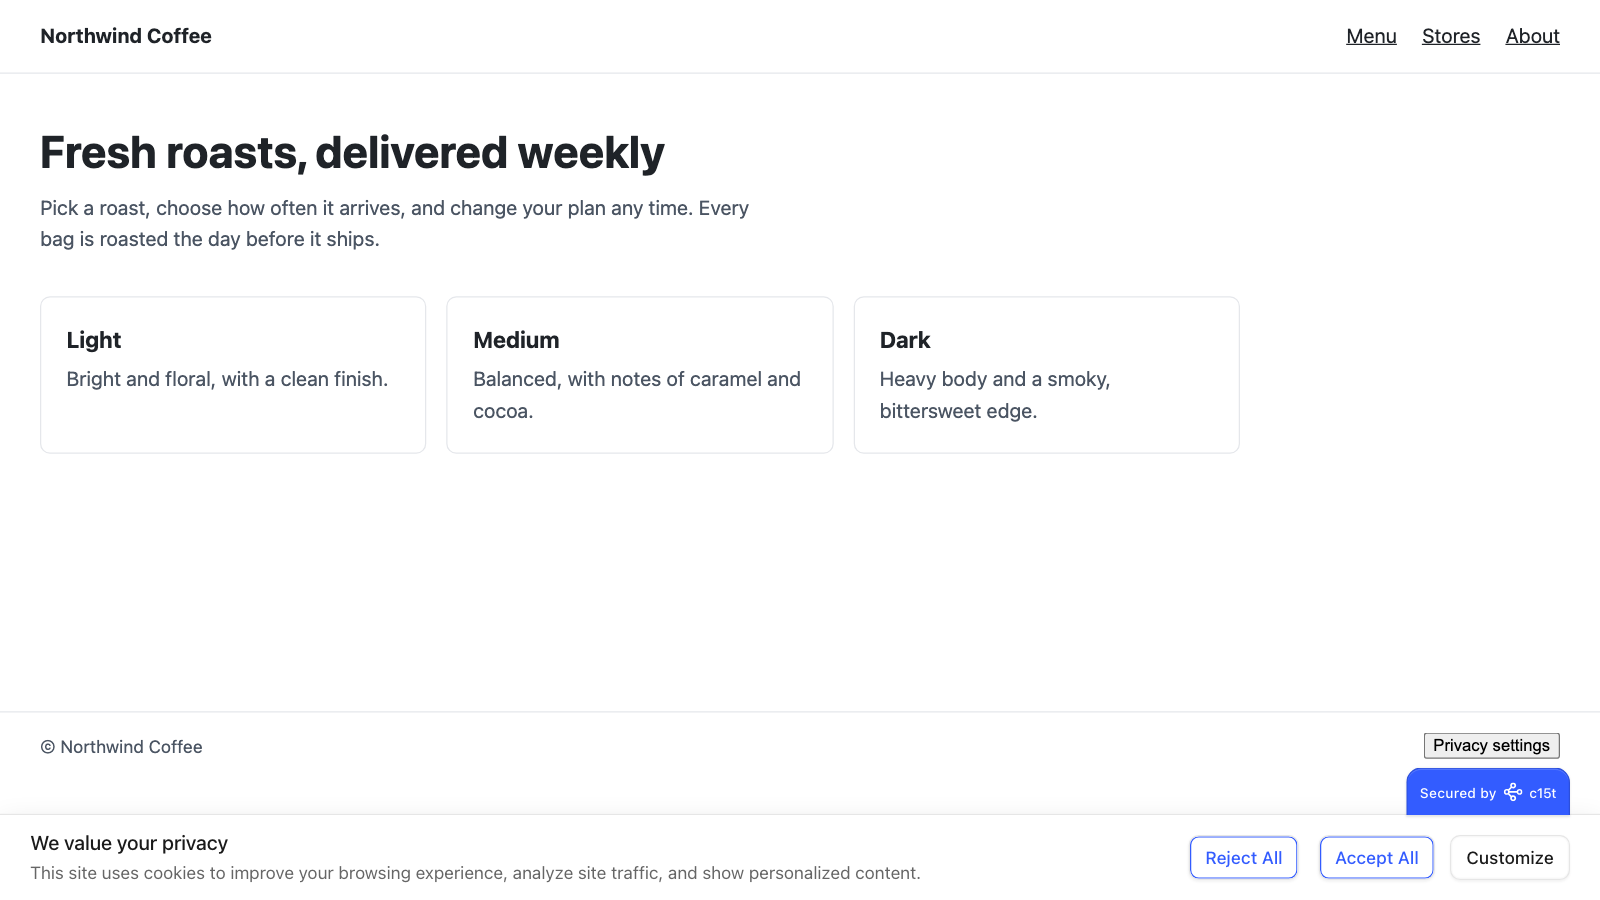
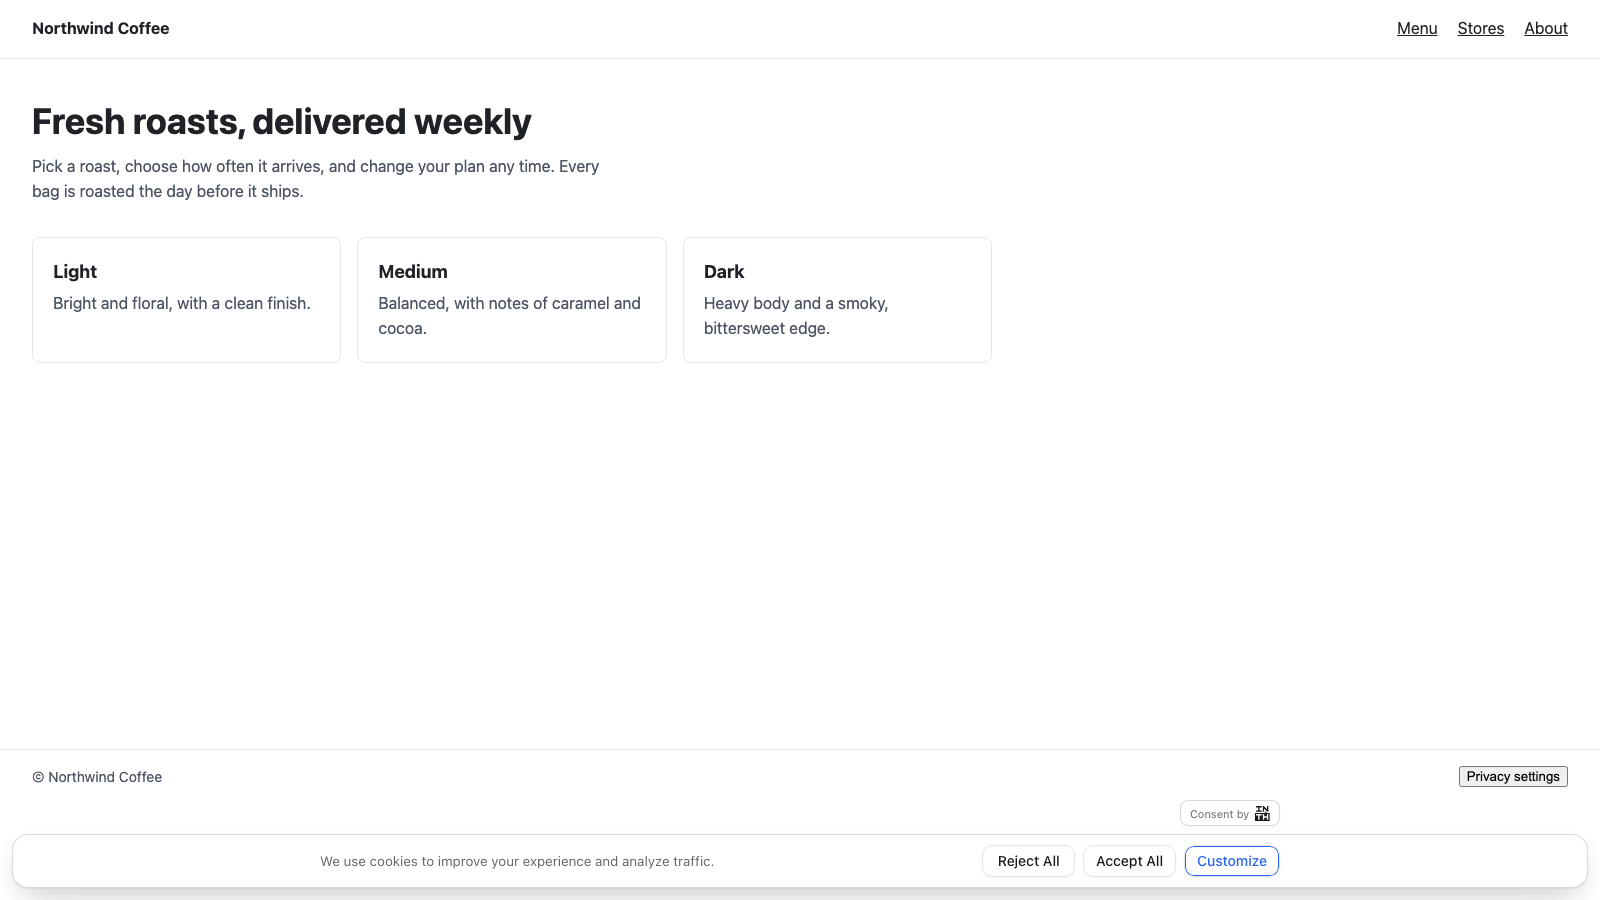
Retake the recipe screenshots that showed the classic UI, and keep the recipe page's header and footer rules off the dialog

diff --git a/apps/docs-recipe-page.css b/apps/docs-recipe-page.css
@@ -1,4 +1,9 @@
-/* The plain site page every Storybook renders its design recipes over. Demo scaffolding only. */
+/*
+ * The plain site page every Storybook renders its design recipes over. Demo
+ * scaffolding only. The recipe renders inside the page, so each rule names
+ * the page's own parts (`> header`, `> main`, `> footer`): a bare `footer`
+ * would also reach the dialog's footer.
+ */
 .recipe-page {
 	min-height: 100vh;
 	display: flex;
@@ -9,8 +14,8 @@
 		16px/1.6 system-ui,
 		sans-serif;
 }
-.recipe-page header,
-.recipe-page footer {
+.recipe-page > header,
+.recipe-page > footer {
 	display: flex;
 	align-items: center;
 	justify-content: space-between;
@@ -18,24 +23,25 @@
 	padding: 1rem 2rem;
 	border-bottom: 1px solid #e5e7eb;
 }
-.recipe-page nav {
+.recipe-page > header nav {
 	display: flex;
 	gap: 1.25rem;
 }
-.recipe-page a {
+.recipe-page > header a,
+.recipe-page > footer a {
 	color: inherit;
 }
-.recipe-page main {
+.recipe-page > main {
 	flex: 1;
 	max-width: 60rem;
 	padding: 2.5rem 2rem;
 }
-.recipe-page h1 {
+.recipe-page > main h1 {
 	margin: 0 0 0.75rem;
 	font-size: 2.25rem;
 	line-height: 1.2;
 }
-.recipe-page main > p {
+.recipe-page > main > p {
 	max-width: 36rem;
 	margin: 0 0 2rem;
 	color: #4b5563;
@@ -58,7 +64,7 @@
 	margin: 0;
 	color: #4b5563;
 }
-.recipe-page footer {
+.recipe-page > footer {
 	border-top: 1px solid #e5e7eb;
 	border-bottom: 0;
 	color: #4b5563;
